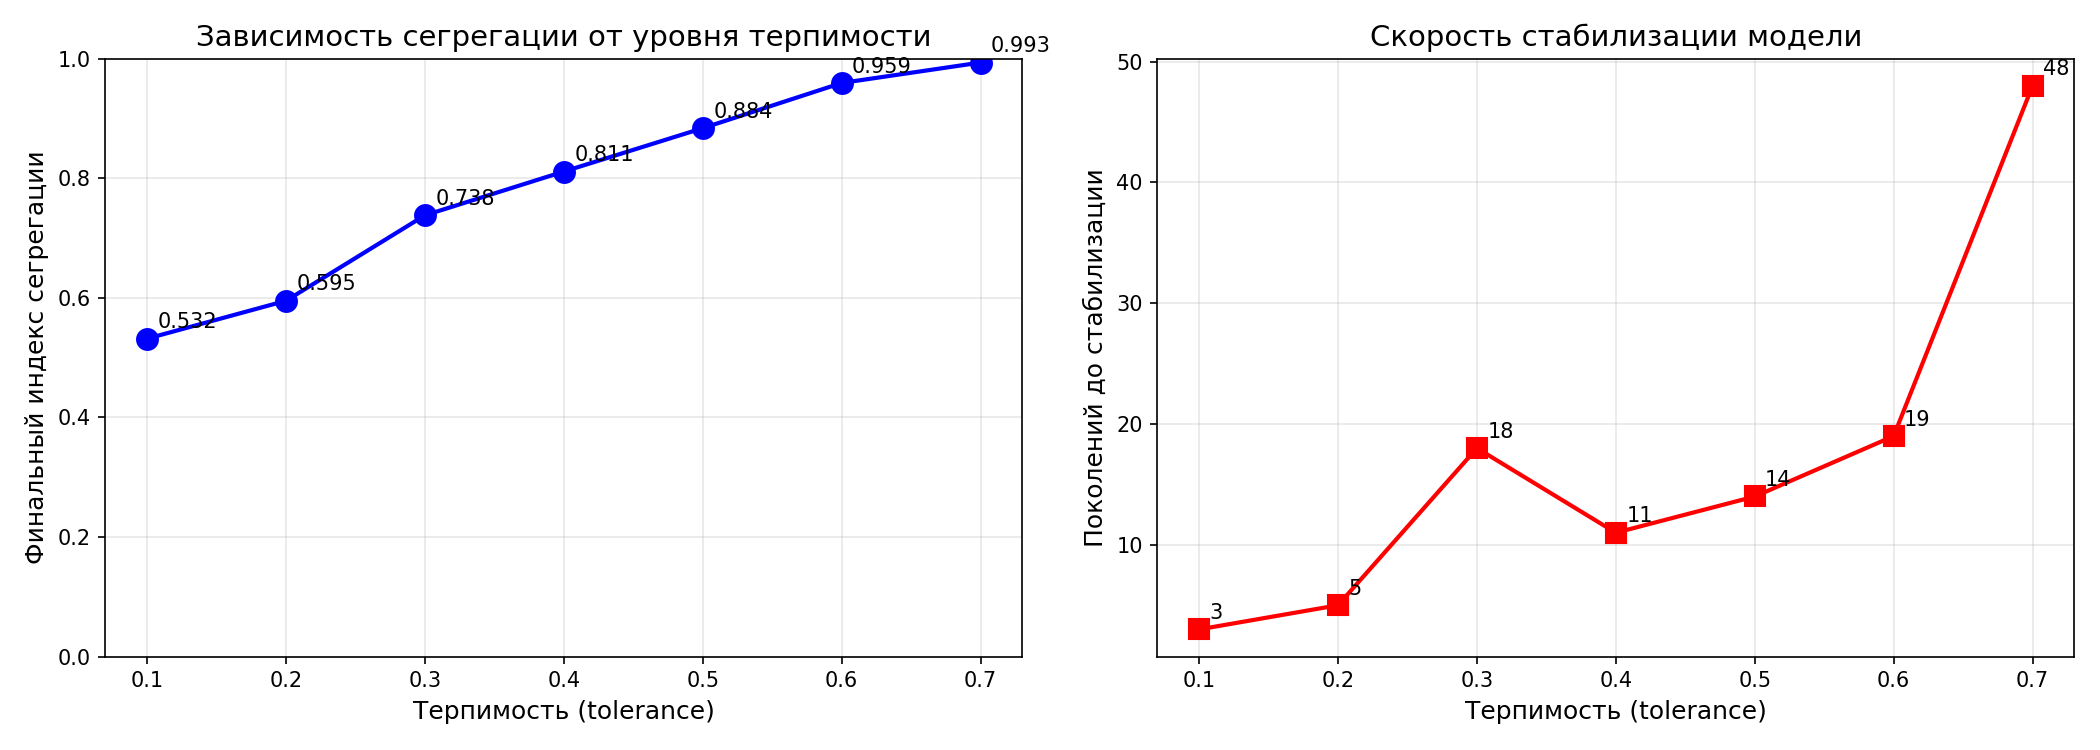
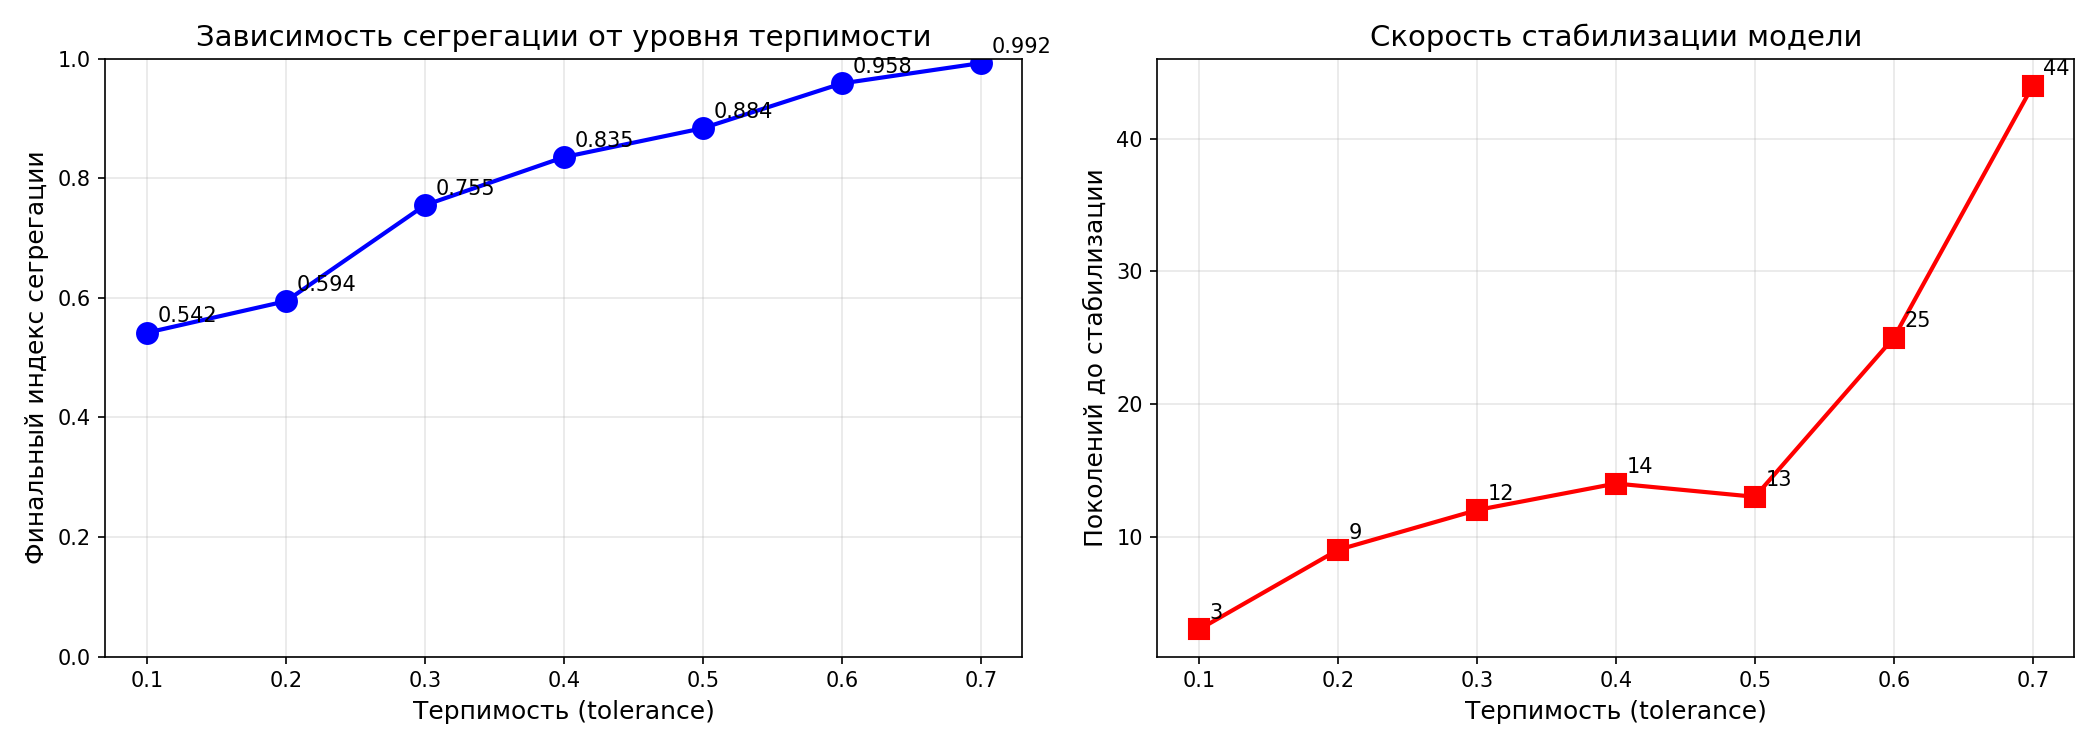
Обновление проекта: новые файлы и изменения

diff --git a/Мухина_Милана_БИС_24_2.py b/Мухина_Милана_БИС_24_2.py
@@ -154,9 +154,9 @@ def save_results_to_txt(model, filename='results.txt'):
 
     with open(filename, 'w', encoding='utf-8') as f:
         # Параметры модели
-        f.write("=" * 60 + "\n")
+        f.write("")
         f.write("МОДЕЛЬ СЕГРЕГАЦИИ ШЕЛЛИНГА - РЕЗУЛЬТАТЫ\n")
-        f.write("=" * 60 + "\n\n")
+        f.write("")
 
         f.write(f"Размер сетки: {model.size}×{model.size}\n")
         f.write(f"Количество агентов: {model.n_agents}\n")

diff --git a/README.md b/README.md
@@ -16,7 +16,7 @@ git clone https://github.com/Milana-gg/praktishh.git
 
 cd praktish
 pip install -r requirements.txt
-python "Мухина_Милана_БИС-24-2.py"
+python "Мухина_Милана_БИС_24_2.py"
 ```
 ## Автор
 Мухина Милана Алексеевна, группа БИС-24-2